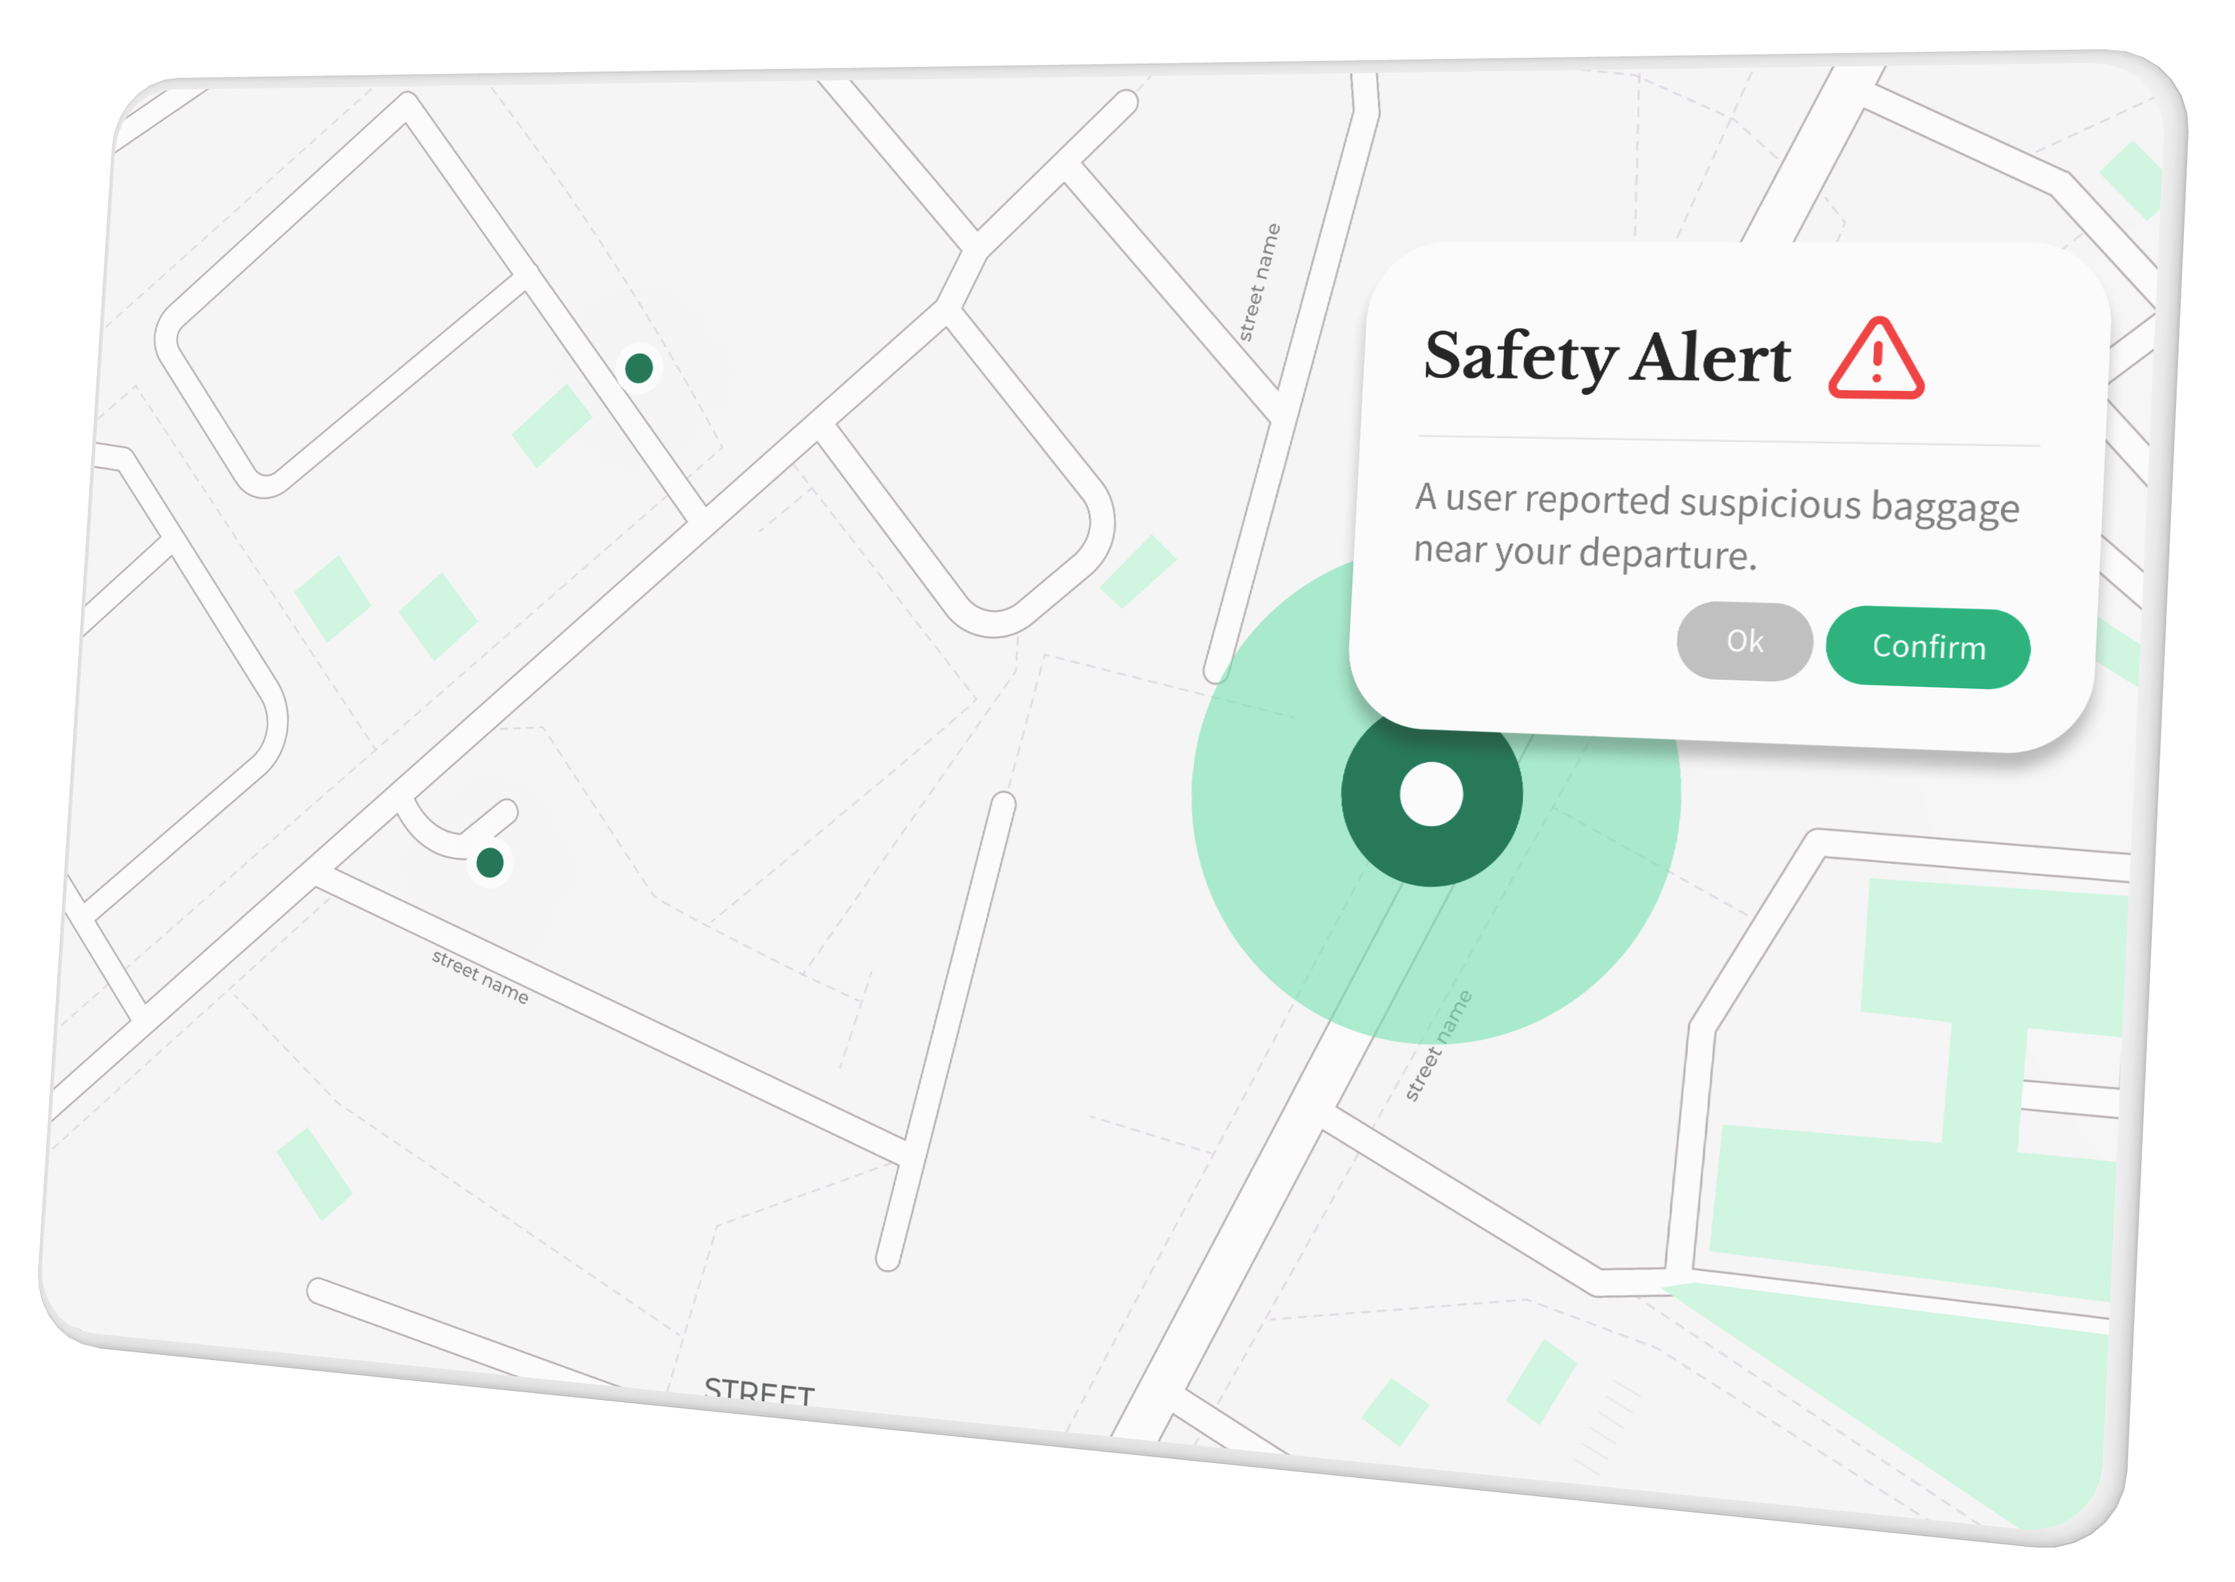
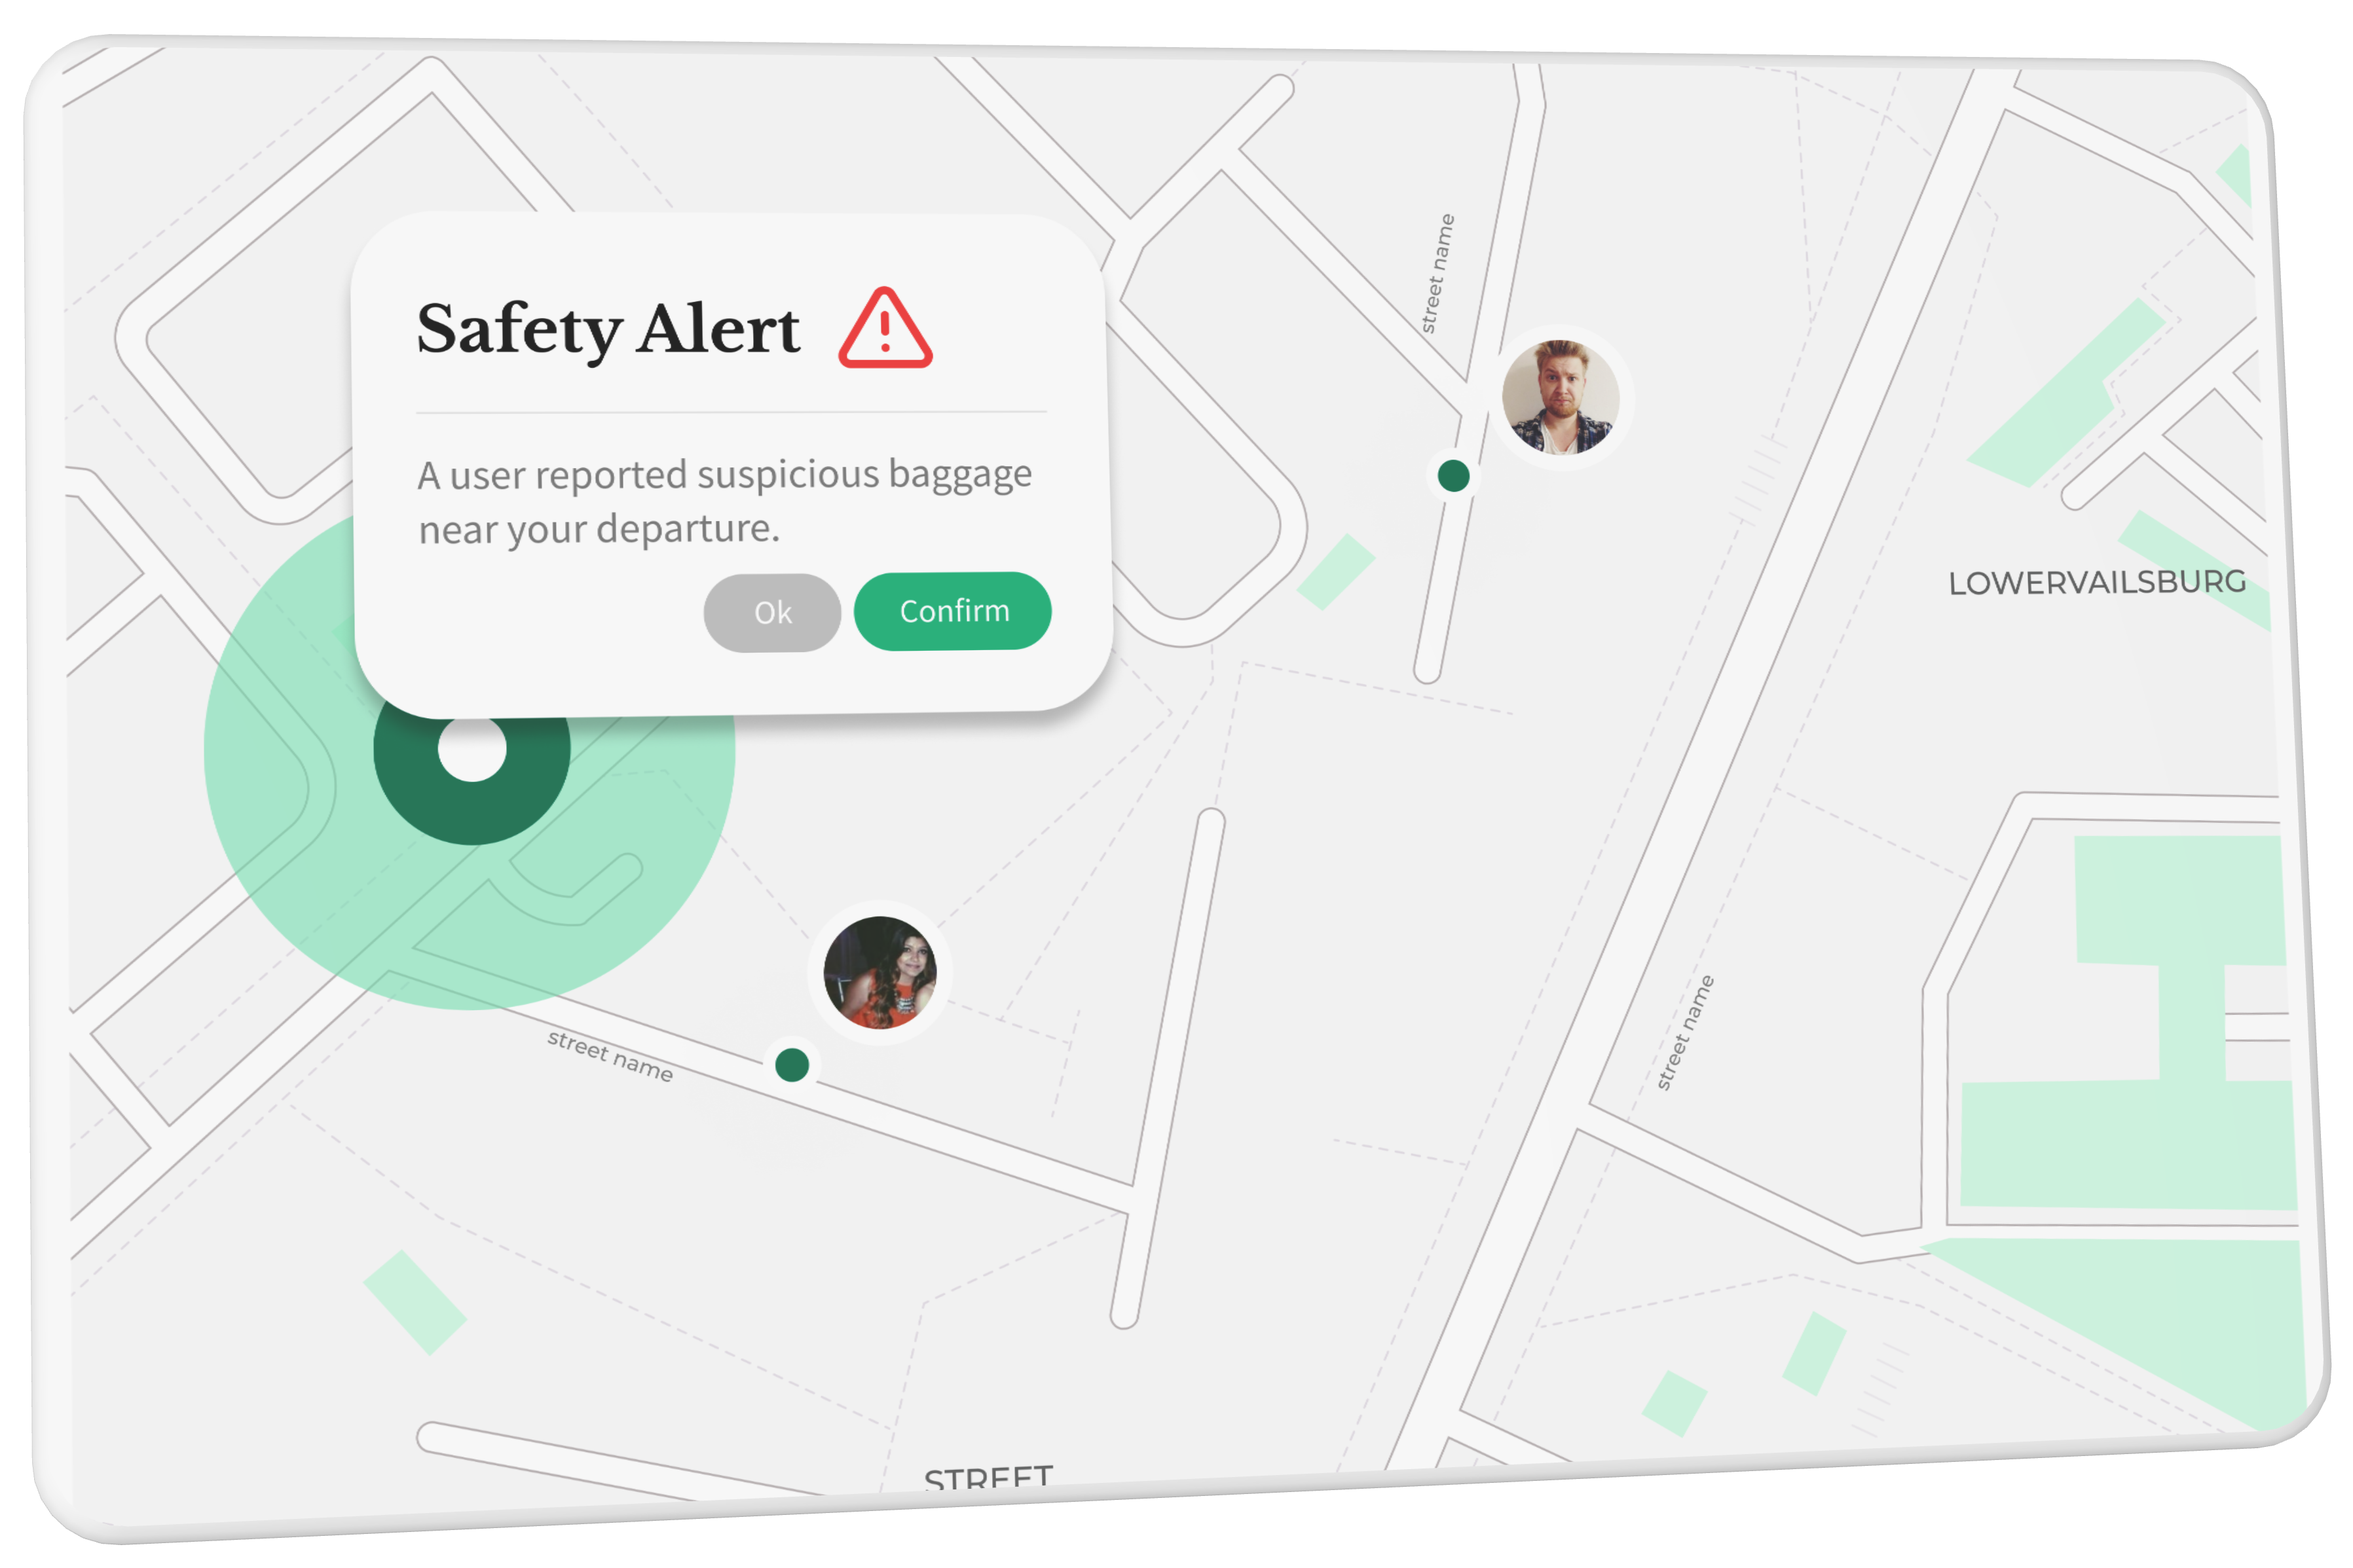
Changed hero section image, made links selectable

diff --git a/src/components/layout/landing/hero.tsx b/src/components/layout/landing/hero.tsx
@@ -41,12 +41,12 @@ export default function HeroSection()
         <div
         className={'relative select-none'}
         >
-            <Image src={'/images/landing/map-mockup.png'} quality={100} alt={'map'} width={600} height={600}
-            className={'drop-shadow-lg shadow-primary'}
+            <Image src={'/images/landing/map.gif'} quality={100} alt={'map'} width={600} height={600}
+            className={'drop-shadow-lg shadow-primary rounded-lg border-4 border-primary-500'}
             />
 
             <Image src={'/images/landing/phone-mockup.png'} quality={100} alt={'map'} width={270} height={600}
-            className={'drop-shadow-lg absolute -top-10 left-5'}
+            className={'drop-shadow-lg absolute -top-10 -right-8'}
             />
         </div>
        

diff --git a/blog/src/components/blog/index.tsx b/blog/src/components/blog/index.tsx
@@ -39,7 +39,7 @@ const Blog: React.FC<BlogProps> = ({ source }) => {
       th: ({ children }) => <th className={'p-4 text-left'}>{children}</th>,
       video: ({ src }) => <video className={'rounded-lg'} src={src} controls={true} />,
       iframe: ({ src }) => <div className={'rounded-lg overflow-hidden w-full'}><iframe className={'rounded-lg w-full'} src={src} /></div>,
-      a: ({ children, href }) => <Button variant={'link'} size={'lg'} className={'text-md hover:translate-y-0 transition-none'} href={href} > { children }</Button>
+      a: ({ children, href }) => <Button variant={'link'} size={'lg'} className={'select-auto text-md hover:translate-y-0 transition-none'} href={href} > { children }</Button>
     }}
     options={options}
     />;
